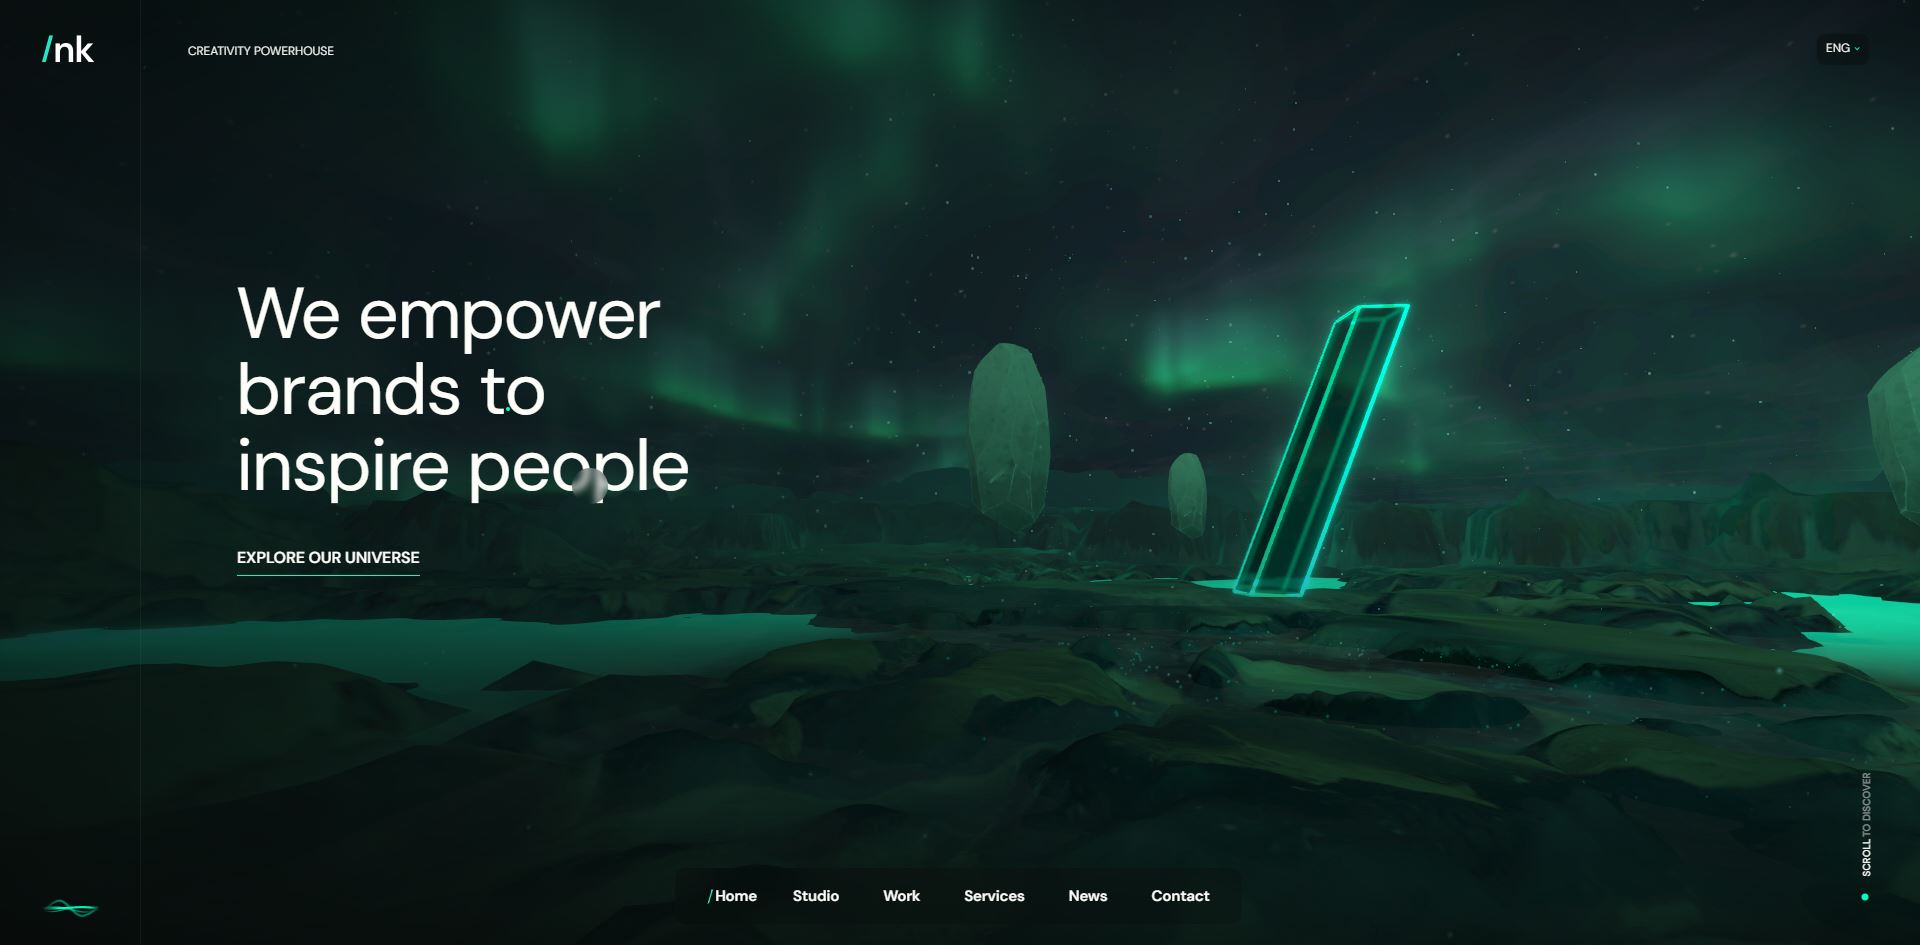
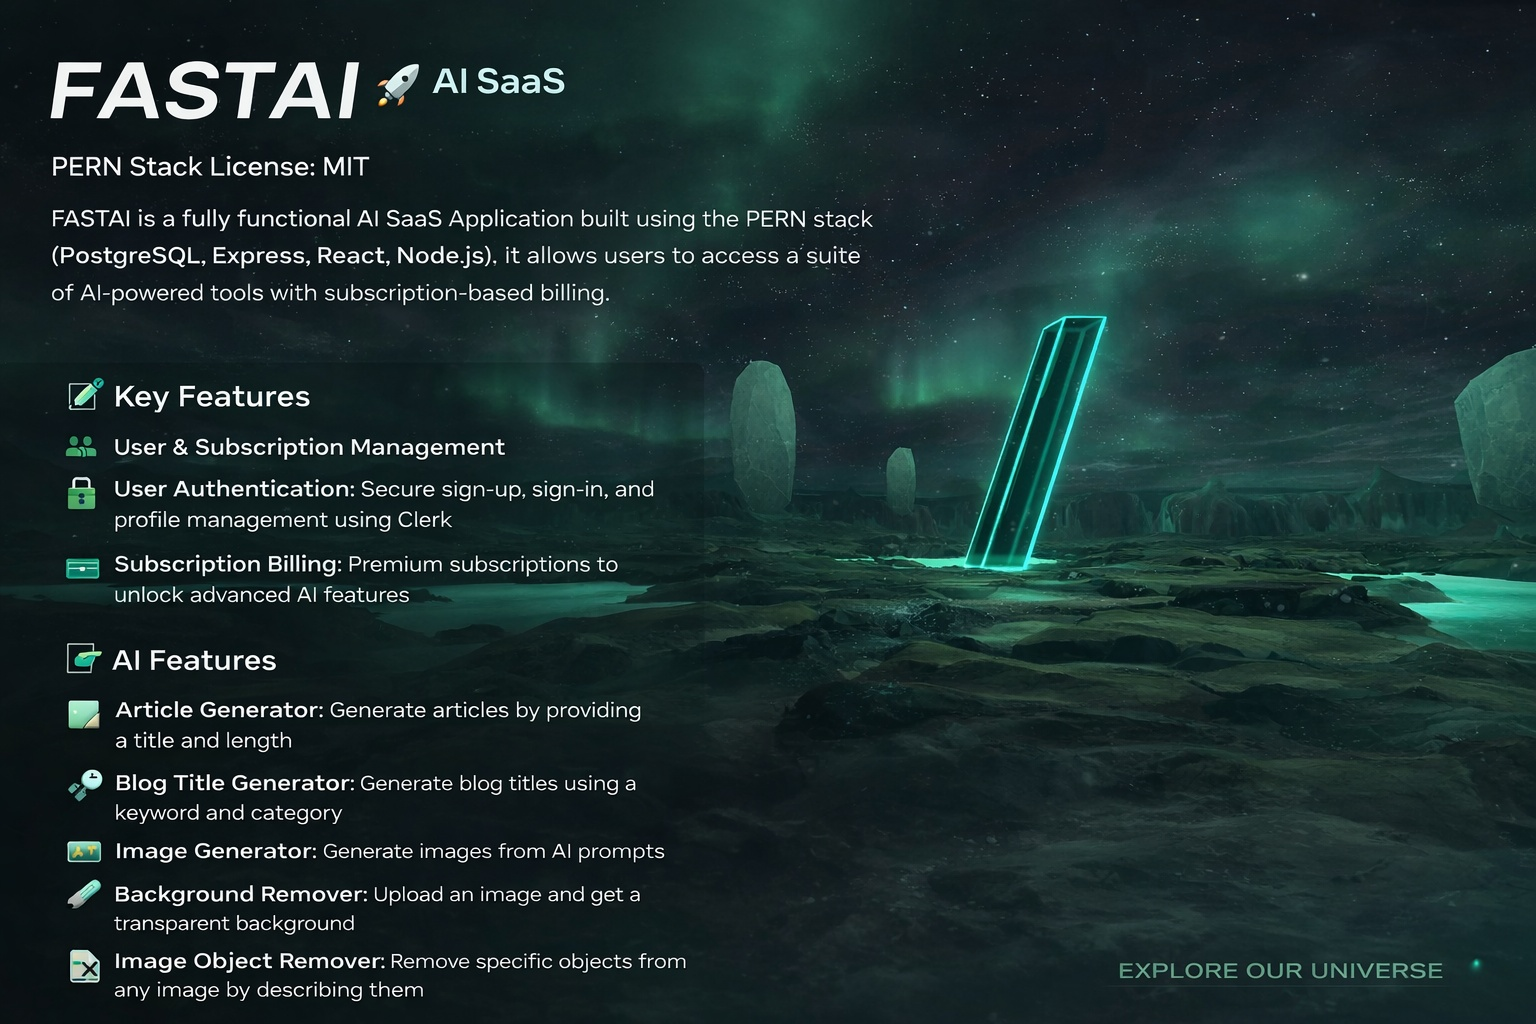
Update projects, assets, and comment out experience
Comment out the HCL 'Graduate Engineer' experience entry in Experience.jsx. Replace the Projects.jsx entry for "Gamily" with "FinLedger – End-to-End Transaction Backend" and update its link to the GitHub repo; also adjust img1 import to use .jpg. Update binary image assets (src/assets/img1/2/3) to new versions.

diff --git a/src/sections/Experience.jsx b/src/sections/Experience.jsx
@@ -16,13 +16,13 @@ const experiences = [
     description:
       "Built responsive websites using React.js, Bootstrap, and MongoDB. Improved loading speed, implemented secure authentication, and added interactive features to boost usability."
   },
-  {
-    role: "Graduate Engineer",
-    company: "HCL Technologies",
-    duration: "2024–2025",
-    description:
-      "Built frontend of GenAI-powered PV Intake App with Next.js & TS for US client.",
-  },
+  // {
+  //   role: "Graduate Engineer",
+  //   company: "HCL Technologies",
+  //   duration: "2024–2025",
+  //   description:
+  //     "Built frontend of GenAI-powered PV Intake App with Next.js & TS for US client.",
+  // },
 ];
 
 function ExperienceItem({exp, idx, start, end, scrollYProgress, layout}) {

diff --git a/src/sections/Projects.jsx b/src/sections/Projects.jsx
@@ -1,6 +1,6 @@
 import {useEffect, useMemo, useRef, useState } from "react";
 
-import img1 from "../assets/img1.JPG"
+import img1 from "../assets/img1.jpg"
 import img2 from "../assets/img2.JPG"
 import img3 from "../assets/img3.JPG"
 import photo1 from "../assets/photo1.JPG"
@@ -42,8 +42,8 @@ export default function Projects() {
         image: isMobile ? photo1 : img1,
       },
       {
-        title: "Gamily",
-        link: "https://gamilyapp.com/",
+        title: "FinLedger – End-to-End Transaction Backend",
+        link: "https://github.com/yadavaman05/Backend-Ledger",
         bgColor: "#3884d3",
         image: isMobile ? photo2 : img2,
       },
